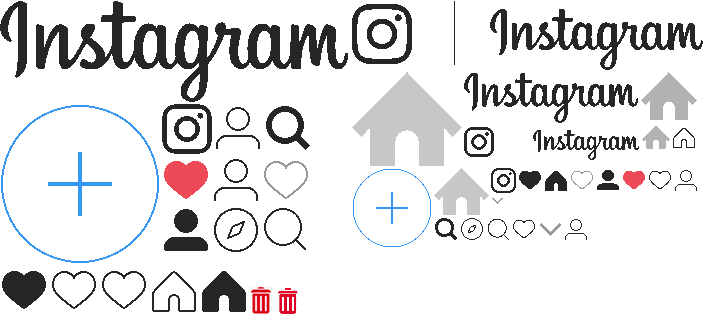
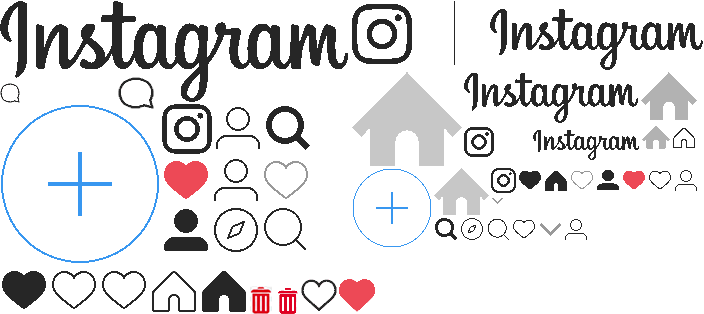
设置首页评论点赞样式

Changed region(s): [[0.4062, 0.8885, 0.5312, 1.0], [0.1562, 0.2293, 0.2188, 0.3439], [0.0, 0.258, 0.0312, 0.3439]]

diff --git a/PythonImageWeb/project/static/js/index.js b/PythonImageWeb/project/static/js/index.js
@@ -80,9 +80,14 @@ $(function () {
                             '<div class="mod-ft">',
                                 '<ul class="discuss-list js-discuss-list">',
                                     '<li class="more-discuss">',
-                                        '<a>',
-                                            '<span>全部 </span><span class="">#{comment_count}</span>',
-                                            '<span> 条评论</span></a>',
+                                        '<div class="lianjie">',
+                                            '<a class="heart"></a>',
+                                           '<span class="comsp"> 0 &nbsp;&nbsp;次赞</span>',
+                                        '</div>',
+                                        '<div class="lianjie">',
+                                            '<a class="com" href="/image/#{id}"></a>',
+                                            '<span class="comsp">#{comment_count}&nbsp;&nbsp;条评论</span>',
+                                        '</div>',
                                     '</li>',
                                     // $.each(oResult.images, function (nIndex, oImage) {
                                     //     var comments=oImage.comments;
@@ -103,7 +108,6 @@ $(function () {
                                     // }),
                                 '</ul>',
                                 '<section class="discuss-edit">',
-                                    '<a class="icon-heart"></a>',
                                     '<form>',
                                         '<input placeholder="添加评论..." type="text">',
                                     '</form>',

diff --git a/PythonImageWeb/project/templates/index.html b/PythonImageWeb/project/templates/index.html
@@ -48,9 +48,14 @@
                     </li>
                     -->
                     <li class="more-discuss">
-                        <a>
-                            <span>全部 </span><span class="">{{image.comments|length}}</span>
-                            <span> 条评论</span></a>
+                        <div class="lianjie">
+                            <a class="heart"></a>
+                            <span class="comsp"> 0 &nbsp;&nbsp;次赞</span>
+                        </div>
+                        <div class="lianjie">
+                            <a class="com" href="/image/{{image.id}}"></a>
+                            <span class="comsp">{{image.comments|length}}&nbsp;&nbsp;条评论</span>
+                        </div>
                     </li>
 
 {#                    {% for comment in image.comments %}#}
@@ -68,13 +73,10 @@
                 </ul>
 
                 <section class="discuss-edit">
-                    <a class="icon-heart"></a>
-
-                        <form class="js-Cmt">
-                            <input placeholder="添加评论..." id={{image.id}} type="text" class="jsCmt">
-                        </form>
-                        <button class="more-info" value={{image.id}} >更多选项</button>
-
+                    <form class="js-Cmt">
+                        <input placeholder="添加评论..." id={{image.id}} type="text" class="jsCmt">
+                    </form>
+                    <button class="more-info" value={{image.id}} >更多选项</button>
                 </section>
             </div>
         </article>

diff --git a/PythonImageWeb/project/static/styles/pages/index.css b/PythonImageWeb/project/static/styles/pages/index.css
@@ -116,18 +116,6 @@
     width: 100%;
 }
 
-.icon-heart-empty,
-.icon-heart {
-    display: inline-block;
-    vertical-align: middle;
-    color: #aaa;
-    font-size: 20px;
-    margin-right: 5px;
-}
-.icon-heart {
-    color: #ED4956;
-}
-
 .discuss-edit form {
     display: inline-block;
     vertical-align: middle;
@@ -137,4 +125,33 @@
     line-height: 18px;
     border: none;
     width: 484px;
+}
+
+.lianjie{
+    position: relative;
+    display: inline-block;
+    margin-right: 10px;
+    width: 140px;
+}
+.comsp{
+    position: absolute;
+    top: 6px;
+    left: 45px;
+    display: inline-block;
+    width: 100px;
+}
+.com {
+    background: url(../../images/img/icons.png) no-repeat -118px -77px;
+    display: inline-block;
+    height: 32px;
+    width: 36px;
+}
+.heart {
+    background: url(../../images/img/icons.png) no-repeat -301px -279px;
+    display: inline-block;
+    height: 32px;
+    width: 36px;
+}
+.after-heart {
+    background-position: -339px -279px;
 }
